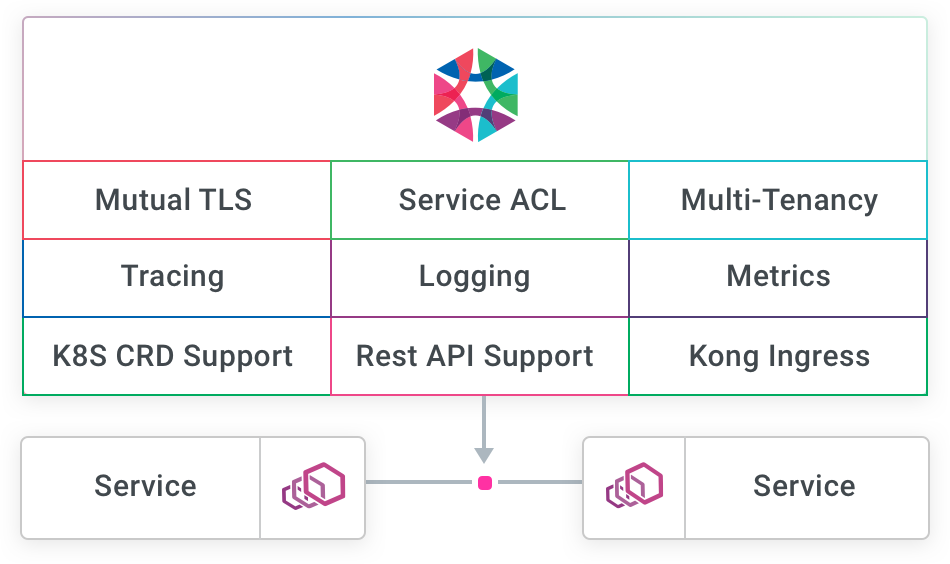
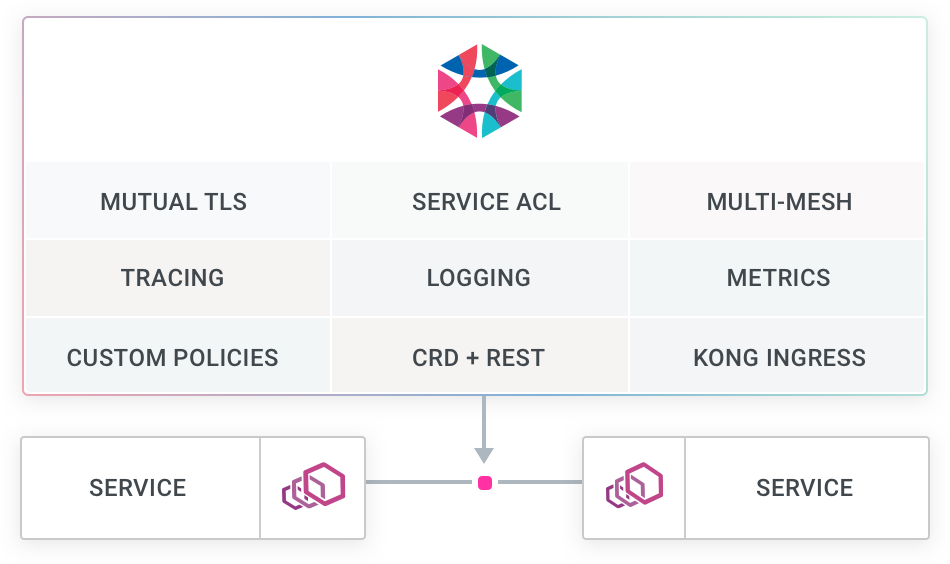
Moved some page content to their corresponding markdown files so that I can convert the page header into its own component, and to make it quicker to update in the future. Added in all of the revised diagrams that Chuca provided.

diff --git a/docs/.vuepress/theme/components/custom/UseCases.vue b/docs/.vuepress/theme/components/custom/UseCases.vue
@@ -1,0 +1,31 @@
+<template>
+  <div class="page-container page-container--community">
+
+    <header v-if="$page.frontmatter.title" class="page-header text-center bg-gradient">
+      <div class="inner">
+        <h1>{{ $page.frontmatter.title }}</h1>
+        <p v-if="$page.frontmatter.title" class="page-sub-title">{{ $page.frontmatter.subTitle }}</p>
+      </div>
+      <!-- .inner -->
+    </header>
+    <!-- .page-header -->
+
+    <div class="inner">
+
+      <p>Lorem ipsum dolor, sit amet consectetur adipisicing elit. Error esse architecto optio ea cupiditate porro ut nobis natus, aut iusto enim aperiam earum, quidem minima quos, quis exercitationem ullam obcaecati.</p>
+
+    </div>
+    <!-- .inner -->
+  
+  </div>
+</template>
+
+<script>
+export default {
+  
+}
+</script>
+
+<style lang="scss">
+
+</style>

diff --git a/docs/.vuepress/theme/layouts/Layout.vue b/docs/.vuepress/theme/layouts/Layout.vue
@@ -45,7 +45,6 @@
 </template>
 
 <script>
-import PathToRegExp from 'path-to-regexp'
 import Navbar from '@theme/components/Navbar.vue'
 import Page from '@theme/components/Page.vue'
 import Sidebar from '@theme/components/Sidebar.vue'
@@ -57,6 +56,7 @@ import Home from '@theme/components/custom/Home.vue'
 import Install from '@theme/components/custom/Install.vue'
 import Community from '@theme/components/custom/Community.vue'
 import RequestADemo from '@theme/components/custom/RequestADemo.vue'
+import UseCases from '@theme/components/custom/UseCases.vue'
 
 export default {
   components: {
@@ -67,7 +67,8 @@ export default {
     Home,
     Install,
     Community,
-    RequestADemo
+    RequestADemo,
+    UseCases
   },
 
   data () {

diff --git a/docs/.vuepress/theme/components/custom/RequestADemo.vue b/docs/.vuepress/theme/components/custom/RequestADemo.vue
@@ -1,10 +1,10 @@
 <template>
   <div class="page-container page-container--community">
 
-    <header class="page-header text-center bg-gradient">
+    <header v-if="$page.frontmatter.title" class="page-header text-center bg-gradient">
       <div class="inner">
-        <h1>Transform your Enterprise</h1>
-        <p class="page-sub-title">Learn how {{ getSiteData.title }} can help your business and improve your applications reliability.</p>
+        <h1>{{ $page.frontmatter.title }}</h1>
+        <p v-if="$page.frontmatter.title" class="page-sub-title">{{ $page.frontmatter.subTitle }}</p>
       </div>
       <!-- .inner -->
     </header>

diff --git a/docs/.vuepress/theme/components/custom/Community.vue b/docs/.vuepress/theme/components/custom/Community.vue
@@ -1,10 +1,10 @@
 <template>
   <div class="page-container page-container--community">
 
-    <header class="page-header text-center bg-gradient">
+    <header v-if="$page.frontmatter.title" class="page-header text-center bg-gradient">
       <div class="inner">
-        <h1>Community</h1>
-        <p class="page-sub-title">Be part of the movement and join the growing Konvoy commmunity</p>
+        <h1>{{ $page.frontmatter.title }}</h1>
+        <p v-if="$page.frontmatter.title" class="page-sub-title">{{ $page.frontmatter.subTitle }}</p>
       </div>
       <!-- .inner -->
     </header>

diff --git a/docs/request-demo.md b/docs/request-demo.md
@@ -1,4 +1,6 @@
 ---
 sidebar: false
 layout: RequestADemo
+title: Transform your Enterprise
+subTitle: Learn how Konvoy can help your business and improve your applications reliability.
 ---

diff --git a/docs/use-cases.md b/docs/use-cases.md
@@ -1,6 +1,6 @@
 ---
 sidebar: false
+layout: UseCases
+title: Use Cases
+subTitle: A sub-title goes here.
 ---
-
-# Use Cases
-lorem ipsum dolor sit amet.

diff --git a/docs/community.md b/docs/community.md
@@ -1,4 +1,6 @@
 ---
 sidebar: false
 layout: Community
+title: Community
+subTitle: Be part of the movement and join the growing Konvoy commmunity
 ---
